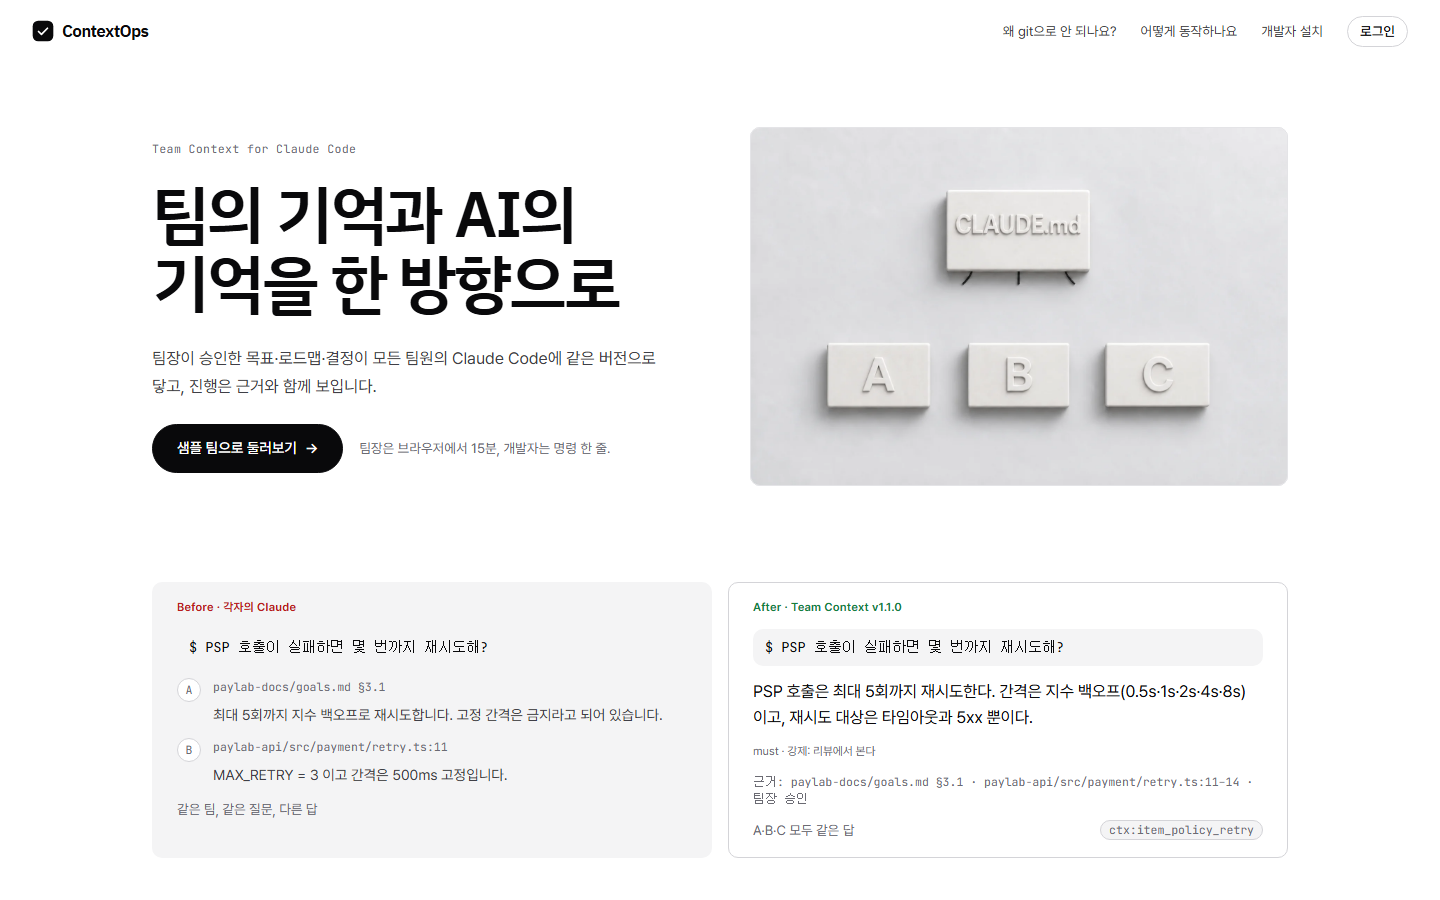
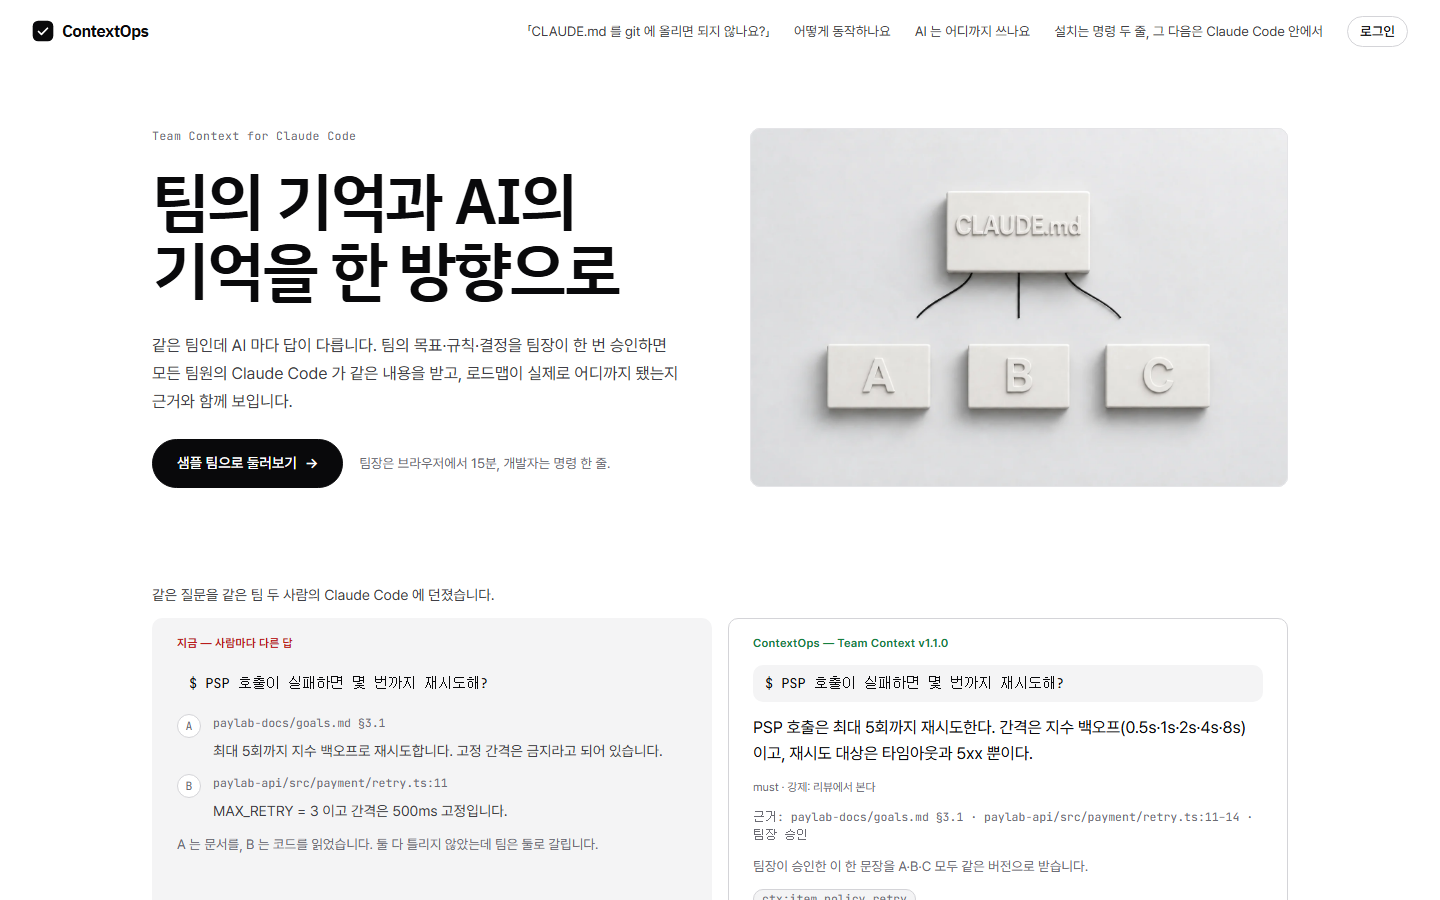
copy(web): 랜딩 문구를 심사위원이 3분에 읽는 기준으로 다시 씀 — 문제부터, 「AI 는 어디까지 쓰나요」 절 신설
사용자: 「팀장이 git 을 안 쓴다가 웃겨」 · 「문구·설명이 뭘 의도하는지 안 와닿는다, 제대로 해줘」 · 「캡처 속도 더 빨리」.
- 부제(site.ts): 「같은 팀인데 AI 마다 답이 다릅니다. …」 — 문제 → 해법 → 증거 순서
- Before/After: 위에 한 줄 캡션 · 제목·발을 상황 문장으로 · After 제목에 버전 유지
- 「CLAUDE.md 를 git 에 올리면 되지 않나요?」: 심사위원의 질문을 제목으로, 첫 줄 「결정은 레포 밖에서 납니다」
- 「어떻게 동작하나요」: 가져와서 정리한다 → 승인해서 발행한다 → 진행이 근거와 함께 보인다 (+ 한 줄 lead)
- 새 절 「AI 는 어디까지 쓰나요」: 후보 · 충돌 질문 · 승인 뒤 LLM 0 · 훅은 보고만 (전부 실제 코드의 사실)
- 신뢰 절 「서버는 코드를 보지 않습니다」 · 설치 절 존댓말 · 머리글 링크 짧은 낱말
- README·SUBMISSION 이 같은 문장을 말한다 (readme.test ①) · DESIGN_BRIEF §4 화면 1 갱신 · og.png
- 히어로 스톱모션 6초 → 3.4초

diff --git a/apps/web/src/components/landing.tsx b/apps/web/src/components/landing.tsx
@@ -71,9 +71,11 @@ export const LANDING_HEAD = {
  *   근거 없는 줄이다 (P7 의 정신).
  */
 export const BEFORE_AFTER = {
+  //  2026-09-10 사용자: 「문구가 안 와닿는다」 — 카드 위에 한 줄로 **무엇을 보고 있는지**부터 말한다.
+  caption: '같은 질문을 같은 팀 두 사람의 Claude Code 에 던졌습니다.',
   prompt: 'PSP 호출이 실패하면 몇 번까지 재시도해?',
   before: {
-    title: 'Before · 각자의 Claude',
+    title: '지금 — 사람마다 다른 답',
     answers: [
       {
         who: 'A',
@@ -86,17 +88,17 @@ export const BEFORE_AFTER = {
         text: 'MAX_RETRY = 3 이고 간격은 500ms 고정입니다.',
       },
     ],
-    foot: '같은 팀, 같은 질문, 다른 답',
+    foot: 'A 는 문서를, B 는 코드를 읽었습니다. 둘 다 틀리지 않았는데 팀은 둘로 갈립니다.',
   },
   after: {
-    title: 'After · Team Context v1.1.0',
+    title: 'ContextOps — Team Context v1.1.0',
     /** 씨앗 초안의 id — Pack 의 역추적 태그(`<!-- ctx:… -->`)에 그대로 실리는 값이다. */
     itemId: 'item_policy_retry',
     text: 'PSP 호출은 최대 5회까지 재시도한다. 간격은 지수 백오프(0.5s·1s·2s·4s·8s)이고, '
       + '재시도 대상은 타임아웃과 5xx 뿐이다.',
     detail: 'must · 강제: 리뷰에서 본다',
     evidence: ['paylab-docs/goals.md §3.1', 'paylab-api/src/payment/retry.ts:11–14', '팀장 승인'],
-    foot: 'A·B·C 모두 같은 답',
+    foot: '팀장이 승인한 이 한 문장을 A·B·C 모두 같은 버전으로 받습니다.',
   },
 } as const
 
@@ -108,10 +110,10 @@ export const BEFORE_AFTER = {
  *   여기 표에는 **절 제목과 설명**만 있다 — 파일 이름은 한 자도 없다.
  */
 export const PRODUCT_TOUR = {
-  title: '제품 화면',
-  lead: '아래는 시안이 아니라 관통 시나리오가 실제 앱을 띄워 찍은 화면입니다. '
-    + '캡처마다 어느 주소의 화면인지 같이 적었습니다.',
-  foot: '캡처는 관통(tools/walkthrough.ps1)의 shots 단계가 매번 다시 찍습니다 — 낡은 그림이 남지 않습니다.',
+  title: '실제로 도는 화면입니다',
+  lead: '아래 세 장은 시안이 아니라 검증 시나리오가 실제 앱을 띄워 방금 찍은 캡처입니다. '
+    + '위의 [샘플 팀으로 둘러보기]를 누르면 같은 화면을 직접 만질 수 있습니다.',
+  foot: '캡처는 검증 시나리오(tools/walkthrough.ps1)의 shots 단계가 매번 다시 찍습니다 — 낡은 그림이 남지 않습니다.',
 } as const
 
 /**
@@ -122,39 +124,69 @@ export const PRODUCT_SHOTS = ShotsManifest.parse(shotsManifest).shots
 
 /** C-1. 왜 git 으로 안 되나요 — 세 문장 카드 + 한 줄. */
 export const WHY_NOT_GIT = {
-  title: '왜 git으로 안 되나요?',
+  //  심사위원이 제일 먼저 던지는 질문을 제목으로 — 그 답이 세 줄이다.
+  title: '「CLAUDE.md 를 git 에 올리면 되지 않나요?」',
   cards: [
     {
-      head: '팀장은 git을 안 씁니다',
-      body: '목표·정책은 문서와 회의에 있고, 레포의 CLAUDE.md 는 개발자 개인이 각자 관리합니다.',
+      //  2026-09-10 사용자: 「팀장이 git 을 안 쓴다」는 문장이 웃기다 — 사람을 깎는 말이 아니라 **결정이 나는 자리**를 말한다.
+      head: '결정은 레포 밖에서 납니다',
+      body: '목표·정책은 문서와 회의에서 정해집니다. 그걸 CLAUDE.md 로 옮기는 일은 개발자 각자의 손에 맡겨져 있어서, 사람마다 다른 파일이 됩니다.',
     },
     {
-      head: '컨텍스트는 레포 하나에 갇히지 않습니다',
-      body: '결제 팀의 재시도 규칙은 API·웹훅·정산 레포에 같이 적용됩니다. 레포마다 복사하면 갈립니다.',
+      head: '한 팀의 규칙은 여러 레포에 걸칩니다',
+      body: '결제 팀의 재시도 규칙은 API·웹훅·정산 레포에 똑같이 적용돼야 합니다. 레포마다 복사해 두면 어느 날 하나만 바뀝니다.',
     },
     {
-      head: 'git은 「왜」를 모릅니다',
-      body: 'diff 는 무엇이 바뀌었는지만 남깁니다. 누가 어떤 근거로 정했는지는 남지 않습니다.',
+      head: 'git 은 「왜」를 남기지 않습니다',
+      body: 'diff 는 무엇이 바뀌었는지만 남깁니다. 누가 어떤 근거로 정했는지가 없으면, AI 도 사람도 그 규칙을 믿을 이유가 없습니다.',
     },
   ],
-  line: 'DeepWiki는 코드를 사람에게 설명합니다. ContextOps는 팀의 결정을 AI에게 꽂습니다.',
+  line: 'ContextOps 는 흩어진 결정을 팀장이 승인한 한 벌로 만들고, 모든 팀원의 AI 에 같은 버전으로 꽂습니다.',
 } as const
 
 /** C-2. 어떻게 동작하나요 — 3단계. ⚠ 썸네일은 없다 (production 캡처가 아직 없다 · PLAN P5 둘째 행). */
 export const HOW_IT_WORKS = {
   title: '어떻게 동작하나요',
+  lead: '팀장은 브라우저에서 세 단계, 개발자는 명령 한 줄입니다.',
   steps: [
     {
-      head: '만든다',
-      body: '문서·답변·코드에서 항목을 뽑고, 서로 어긋난 것은 사람이 결정합니다. 승인된 것만 남습니다.',
+      head: '가져와서 정리한다',
+      body: '목표 문서·회의록을 붙여 넣거나 질문 10개에 답하면, AI 가 규칙·마일스톤 후보를 뽑고 서로 어긋난 것을 찾아 질문으로 만듭니다. 결정은 사람이 합니다.',
     },
     {
-      head: '배포한다',
-      body: '같은 snapshot 은 언제나 같은 Pack 입니다. 모든 기기가 같은 버전·같은 해시를 받습니다.',
+      head: '승인해서 발행한다',
+      body: '팀장이 승인한 항목만 CLAUDE.md 한 벌로 묶여 버전이 붙습니다. 모든 팀원의 Claude Code 가 같은 버전·같은 해시를 받습니다. 승인 뒤에는 AI 가 끼어들지 않습니다.',
     },
     {
-      head: '진행이 보인다',
-      body: '각자의 AI 가 작업 끝에 근거를 보고하고, 완료는 사람이 확인합니다. 행은 마일스톤입니다.',
+      head: '진행이 근거와 함께 보인다',
+      body: '개발자의 AI 가 작업을 마치면 어떤 파일을 고쳤는지 보고합니다. 로드맵은 마일스톤 단위로 채워지고, 완료 판정은 사람이 합니다.',
+    },
+  ],
+} as const
+
+/**
+ * C-2b. AI 는 어디까지 쓰나 — 심사 기준 「AI 활용 적절성」에 대한 랜딩의 답 (2026-09-10 · 사용자 「문구가 안 와닿는다」).
+ * ⚠ 쓰는 곳·안 쓰는 곳이 전부 실제 코드다: 구조화·충돌 탐지는 `lib/ai`(P3) · 발행·배포는 LLM 0 (P4) · 훅은 보고만 (SPEC §8.6).
+ */
+export const AI_USE = {
+  title: 'AI 는 어디까지 쓰나요',
+  lead: 'AI 는 후보와 질문을 만들고, 결정은 사람이, 배포는 결정론이 맡습니다.',
+  rows: [
+    {
+      head: '문서를 항목 후보로 바꿉니다',
+      body: '붙여 넣은 문서에서 규칙·마일스톤 후보를 뽑고 근거 위치를 같이 답니다 (서버쪽 모델은 Gemini). 후보는 후보일 뿐, 승인 버튼은 사람 몫입니다.',
+    },
+    {
+      head: '서로 어긋난 결정을 찾아 묻습니다',
+      body: '문서끼리, 또는 문서와 코드가 다르게 말하면 충돌 카드로 올립니다. 「A 가 맞다 · B 가 맞다 · 보류」는 사람이 고릅니다.',
+    },
+    {
+      head: '승인 뒤에는 쓰지 않습니다',
+      body: '발행과 배포는 AI 없이 결정론적으로 돕니다. 같은 스냅샷은 언제나 같은 파일·같은 해시라서, 어느 기기가 무엇을 받았는지 그대로 검증됩니다.',
+    },
+    {
+      head: '개발자의 AI 는 보고만 합니다',
+      body: '작업 끝에 어떤 경로를 고쳤는지 근거를 올립니다. 완료를 스스로 선언하지 못하고, 사람이 확인해야 완료가 됩니다.',
     },
   ],
 } as const
@@ -171,10 +203,10 @@ export const HOW_IT_WORKS = {
  *   보고 하나가 실제로 그만큼만 바꾼다.
  */
 export const TERMINAL_REPLAY = {
-  title: '터미널에서는 이렇게 보입니다',
-  lead: '세션을 열면 훅이 새 버전을 알리고, /contextops:sync 로 받고, 작업을 마치면 agent 가 '
-    + '근거와 함께 보고합니다. 오른쪽 Roadmap 이 같은 시각에 바뀝니다.',
-  source: '관통 시나리오가 배포되는 플러그인을 실제로 돌려 남긴 출력입니다 (fixtures/replay/sync.json). '
+  title: '개발자 쪽에서는 이렇게 보입니다',
+  lead: 'Claude Code 를 열면 훅이 새 버전을 알리고, /contextops:sync 한 줄로 받습니다. '
+    + '작업을 마치면 AI 가 근거와 함께 보고하고, 오른쪽 Roadmap 이 같은 순간 바뀝니다.',
+  source: '배포되는 플러그인을 실제로 돌려 남긴 출력입니다 (fixtures/replay/sync.json). '
     + '사이의 작업은 생략했고, 타이핑과 줄 사이 간격만 읽을 수 있게 늘렸습니다.',
   milestone: {
     id: 'PL-M1',
@@ -196,9 +228,9 @@ export const REPLAY_FRAMES = ReplayFrames.parse(replayRecording)
  *   한다 — 시험이 센다. 하나라도 빠지면 첫 화면이 제품의 첫 주장을 반만 말한다.
  */
 export const TRUST_BOUNDARY = {
-  title: '서버가 아는 것 / 모르는 것',
+  title: '서버는 코드를 보지 않습니다',
   knows: {
-    head: '서버가 아는 것',
+    head: '서버가 받는 것',
     rows: [
       '팀·프로젝트 ID',
       '구조화된 항목 (제목·규칙·마일스톤)',
@@ -208,7 +240,7 @@ export const TRUST_BOUNDARY = {
     ],
   },
   unknown: {
-    head: '서버가 모르는 것',
+    head: '절대 받지 않는 것',
     rows: [
       '저장소 코드 본문',
       '환경변수 · secret',
@@ -217,7 +249,7 @@ export const TRUST_BOUNDARY = {
       'Claude 대화 내용',
     ],
   },
-  foot: '올라가는 것은 allowlist 스키마로만 통과합니다. 훅은 파일을 바꾸지 않습니다.',
+  foot: '올라가는 것은 정해진 스키마를 통과한 항목뿐입니다. 코드 본문·비밀값·개인 메모리·대화는 어떤 경우에도 서버로 가지 않고, 훅은 파일을 바꾸지 않습니다.',
 } as const
 
 /**
@@ -256,22 +288,22 @@ export const SUBMISSION_IDENTITY = {
  * ⚠ `/contextops:…` 는 `plugin/contextops/skills/<이름>` 이 있어야 한다 (시험이 센다).
  */
 export const INSTALL_STEPS = {
-  title: '개발자 설치',
+  title: '설치는 명령 두 줄, 그 다음은 Claude Code 안에서',
   /**
    * 🔴 Node 가 있어야 한다 — 훅(`scripts/*.mjs`)과 CLI 번들이 `node` 로 돈다. 네이티브 Claude Code 만 깐 사람은
    *   이 줄이 없으면 **매 세션 훅 오류 줄**을 본다 (2026-09-09 감사). 숫자의 정본은 `.nvmrc` 이고
    *   `test/readme.test.ts` 가 같은 값인지 잰다 (번들 target 도 그 값이다 · `plugin/contextops/scripts/build.ts`).
    */
-  requires: 'Node 22 이상이 필요하다 (node -v) — 훅과 CLI 가 Node 로 돈다.',
+  requires: 'Node 22 이상이 필요합니다 (node -v) — 훅과 CLI 가 Node 로 돕니다.',
   lines: [
-    { cmd: `claude plugin marketplace add ${SUBMISSION_IDENTITY.marketplaceRef}`, note: '플러그인 저장소를 등록한다' },
-    { cmd: 'claude plugin install contextops', note: '플러그인을 깐다 (훅 · Skill · CLI)' },
+    { cmd: `claude plugin marketplace add ${SUBMISSION_IDENTITY.marketplaceRef}`, note: '플러그인 저장소를 등록합니다' },
+    { cmd: 'claude plugin install contextops', note: '훅·Skill·CLI 가 함께 깔립니다' },
     //  ⚠ 셋째 줄은 Claude Code 안의 Skill 이다 — 터미널 명령이 아니다. 예전의 `node "$CLAUDE_PLUGIN_ROOT/…"` 는
     //    사용자 터미널에 없는 변수라 그대로 치면 「파일이 없다」였다. Skill 이 그 경로를 채운다.
-    { cmd: '/contextops:setup <Sync 화면이 준 인자>', note: 'Claude Code 안에서. 웹의 Sync → [기기 추가] 가 이 줄을 통째로 준다 — 토큰은 저장소 밖에' },
-    { cmd: '/contextops:init', note: 'Claude Code 안에서 한 번. 저장소를 훑어 첫 항목을 올린다' },
+    { cmd: '/contextops:setup <Sync 화면이 준 인자>', note: 'Claude Code 안에서. 웹의 Sync → [기기 추가] 가 이 줄을 통째로 줍니다 — 토큰은 저장소 밖에 둡니다' },
+    { cmd: '/contextops:init', note: 'Claude Code 안에서 한 번. 저장소를 훑어 첫 항목을 올립니다' },
   ],
-  foot: '그 다음은 팀장이 웹에서 승인하고, /contextops:sync 로 받는다.',
+  foot: '그 다음은 팀장이 웹에서 승인하고, 개발자는 /contextops:sync 로 받습니다.',
 } as const
 
 /** 푸터 (DESIGN_BRIEF 화면 1 C-6: 제출 팀명 · GitHub 링크 · Known limitations 링크). 값은 `SUBMISSION_IDENTITY` 하나에서 온다. */
@@ -348,9 +380,11 @@ function Hero() {
 }
 
 function BeforeAfter() {
-  const { prompt, before, after } = BEFORE_AFTER
+  const { caption, prompt, before, after } = BEFORE_AFTER
   return (
-    <div className={styles.compare} aria-label="Before/After">
+    <section className={styles.compareBand} aria-label="Before/After">
+      <p className={styles.compareCaption}>{caption}</p>
+      <div className={styles.compare}>
       <div className={`card ${styles.slip} ${styles.slipBefore}`}>
         <span className={`${styles.slipLabel} ink-bad`}>{before.title}</span>
         <code className={styles.prompt}>$ {prompt}</code>
@@ -378,7 +412,8 @@ function BeforeAfter() {
           <span className="ctx-tag">ctx:{after.itemId}</span>
         </div>
       </div>
-    </div>
+      </div>
+    </section>
   )
 }
 
@@ -456,7 +491,7 @@ function HowItWorks({ index }: { index: string }) {
   if (art) {
     return (
       <section className={styles.section} aria-labelledby="landing-how">
-        <SectionHead id="landing-how" index={index} title={HOW_IT_WORKS.title} />
+        <SectionHead id="landing-how" index={index} title={HOW_IT_WORKS.title} lead={HOW_IT_WORKS.lead} />
         {steps}
       </section>
     )
@@ -465,10 +500,27 @@ function HowItWorks({ index }: { index: string }) {
     <section className={styles.section} aria-labelledby="landing-how">
       <div className={styles.split}>
         <div className={styles.splitHead}>
-          <SectionHead id="landing-how" index={index} title={HOW_IT_WORKS.title} />
+          <SectionHead id="landing-how" index={index} title={HOW_IT_WORKS.title} lead={HOW_IT_WORKS.lead} />
         </div>
         {steps}
       </div>
+    </section>
+  )
+}
+
+function AiUse({ index }: { index: string }) {
+  return (
+    <section className={styles.section} aria-labelledby="landing-ai">
+      <SectionHead id="landing-ai" index={index} title={AI_USE.title} lead={AI_USE.lead} />
+      {/* 정의 목록 — 「왜 git」과 같은 모양. 아이콘 없이 글과 괘선으로만 (anti-slop). */}
+      <dl className={styles.defs}>
+        {AI_USE.rows.map((r) => (
+          <div key={r.head} className={styles.def}>
+            <dt>{r.head}</dt>
+            <dd>{r.body}</dd>
+          </div>
+        ))}
+      </dl>
     </section>
   )
 }
@@ -560,11 +612,13 @@ function Foot() {
  */
 const SECTIONS = [
   { render: ProductShots, id: 'landing-shots', nav: null },
-  { render: WhyNotGit, id: 'landing-why', nav: WHY_NOT_GIT.title },
-  { render: HowItWorks, id: 'landing-how', nav: HOW_IT_WORKS.title },
+  //  머리글의 낱말은 절 제목의 **짧은 판**이다 — 제목은 문장이라 머리글에 넣으면 한 줄을 다 먹는다 (눈으로 봤다).
+  { render: WhyNotGit, id: 'landing-why', nav: '왜 git 이 아닌가' },
+  { render: HowItWorks, id: 'landing-how', nav: '어떻게 동작하나' },
+  { render: AiUse, id: 'landing-ai', nav: 'AI 활용' },
   { render: Replay, id: 'landing-replay', nav: null },
   { render: TrustBoundary, id: 'landing-trust', nav: null },
-  { render: Install, id: 'landing-install', nav: INSTALL_STEPS.title },
+  { render: Install, id: 'landing-install', nav: '설치' },
 ] as const
 
 /** 머리글 링크의 닻 — h2 의 id 에서 `landing-` 을 뗀 것 (`/#why` · `/#install`). */

diff --git a/apps/web/src/components/landing.module.css b/apps/web/src/components/landing.module.css
@@ -109,25 +109,29 @@
 }
 
 /* 스톱모션 — 실이 내려오는 프레임 넷이 바닥 그림(완성 장면) 위에 차례로 뜬다 (`ART.heroFrames`).
-   한 바퀴 6초: 프레임마다 0.8초, 완성 장면이 2.8초 쉰다. `steps(1)` 이라 페이드 없이 딱딱 바뀐다 — 클레이 스톱모션의 손맛.
+   한 바퀴 3.4초: 프레임마다 0.45초, 완성 장면이 1.6초 쉰다 (처음 6초는 느리다고 해 반으로 — 2026-09-10 사용자).
+   `steps(1)` 이라 페이드 없이 딱딱 바뀐다 — 클레이 스톱모션의 손맛. 프레임 길이 ÷ 한 바퀴 = 13.24% 가 아래 keyframe 이다.
    ★ 움직임 줄이기 — 여기서 다루지 않는다. `globals.css` 의 한 블록이 duration 0.01ms·1회로 끝내면 프레임은 전부
      기본값(opacity 0)으로 돌아가고 바닥 그림만 남는다. 그래서 완성 장면이 **바닥**이어야 한다 — 순서를 바꾸지 마라. */
 .heroFrame {
   position: absolute;
   inset: 0;
   opacity: 0;
-  animation: hero-stop 6s steps(1) infinite;
+  animation: hero-stop 3.4s steps(1) infinite;
 }
-.heroFrame:nth-child(3) { animation-delay: 0.8s; }
-.heroFrame:nth-child(4) { animation-delay: 1.6s; }
-.heroFrame:nth-child(5) { animation-delay: 2.4s; }
+.heroFrame:nth-child(3) { animation-delay: 0.45s; }
+.heroFrame:nth-child(4) { animation-delay: 0.9s; }
+.heroFrame:nth-child(5) { animation-delay: 1.35s; }
 @keyframes hero-stop {
   0% { opacity: 1; }
-  13.34% { opacity: 0; }
+  13.24% { opacity: 0; }
   100% { opacity: 0; }
 }
 
-/* ── Before/After — 히어로 밑의 두 열 ── */
+/* ── Before/After — 히어로 밑의 두 열. 위에 「무엇을 보고 있는지」 한 줄. ── */
+
+.compareBand { display: flex; flex-direction: column; gap: var(--sp-3); }
+.compareCaption { font-size: var(--fs-body); color: var(--ink-2); }
 
 .compare {
   display: grid;

diff --git a/apps/web/src/lib/web/site.ts b/apps/web/src/lib/web/site.ts
@@ -18,8 +18,9 @@ export const SITE = {
   tagline: '팀의 기억과 AI의 기억을 한 방향으로',
   /** 랜딩 부제와 같은 문장이다 (`LANDING_HEAD.subtitle`). 링크 미리보기의 설명 칸에 그대로 나간다. */
   description:
-    '팀장이 승인한 목표·로드맵·결정이 모든 팀원의 Claude Code에 같은 버전으로 닿고, '
-    + '진행은 근거와 함께 보입니다.',
+    //  2026-09-10 사용자: 「문구가 뭘 의도하는지 안 와닿는다」 — 문제(같은 팀, 다른 답)부터 말한다.
+    '같은 팀인데 AI 마다 답이 다릅니다. 팀의 목표·규칙·결정을 팀장이 한 번 승인하면 '
+    + '모든 팀원의 Claude Code 가 같은 내용을 받고, 로드맵이 실제로 어디까지 됐는지 근거와 함께 보입니다.',
   /** `public/og.png` — `pnpm --filter web og:image` 가 헤드리스 Chrome 으로 그린다 (1200×630). */
   ogImage: { path: '/og.png', width: 1200, height: 630 },
   /** `public/icon.svg` — 탭·북마크 아이콘. 색은 DESIGN_BRIEF §3 의 토큰 값 그대로다. */

diff --git a/docs/DESIGN_BRIEF.md b/docs/DESIGN_BRIEF.md
@@ -237,7 +237,8 @@
 
 **A. 헤드라인** (좌측, 최대 60% 폭)
 - 제목: `팀의 기억과 AI의 기억을 한 방향으로`
-- 부제: `팀장이 승인한 목표·로드맵·결정이 모든 팀원의 Claude Code에 같은 버전으로 닿고, 진행은 근거와 함께 보입니다.`
+- 부제: `같은 팀인데 AI 마다 답이 다릅니다. 팀의 목표·규칙·결정을 팀장이 한 번 승인하면 모든 팀원의 Claude Code 가 같은 내용을 받고, 로드맵이 실제로 어디까지 됐는지 근거와 함께 보입니다.`
+  (2026-09-10 사용자 「문구가 뭘 의도하는지 안 와닿는다」 → 문제부터 말하는 문장으로. **모든 문구의 정본은 `landing.tsx` 의 표**이고 아래 C 절의 문장은 목업이다.)
 - 버튼: [샘플 팀으로 둘러보기] (accent, 게스트 입장) · [2분 영상 보기] (outline)
 - 아래 작은 줄: `팀장은 브라우저에서 15분, 개발자는 명령 한 줄.`
 
@@ -276,9 +277,10 @@
 - accent 는 쓰지 않는다 — 이 화면의 accent 는 [샘플 팀으로 둘러보기] 하나다
 
 **C. 스크롤 아래 섹션 순서**
-1. `왜 git으로 안 되나요?` — 세 문장 카드 3개(팀장은 git을 안 씁니다 / 컨텍스트는 레포 하나에 갇히지 않습니다 / git은 "왜"를 모릅니다) + 한 줄 `DeepWiki는 코드를 사람에게 설명합니다. ContextOps는 팀의 결정을 AI에게 꽂습니다.`
+1. `「CLAUDE.md 를 git 에 올리면 되지 않나요?」` — 정의 목록 3줄(결정은 레포 밖에서 납니다 / 한 팀의 규칙은 여러 레포에 걸칩니다 / git 은 「왜」를 남기지 않습니다) — 옛 문구: (결정은 레포 밖에서 납니다 / 컨텍스트는 레포 하나에 갇히지 않습니다 / git은 "왜"를 모릅니다) + 한 줄 `DeepWiki는 코드를 사람에게 설명합니다. ContextOps는 팀의 결정을 AI에게 꽂습니다.`
 2. `어떻게 동작하나요` — 3단계 가로 스텝: ① 만든다(문서·답변·코드 → 승인) ② 배포한다(같은 버전·같은 해시) ③ 진행이 보인다(AI가 근거를 자동 보고, 사람이 완료 확인). 각 스텝 위에 같은 시리즈의 클레이 그림(`ART.steps` · §3 「그림」).
-3. `터미널 재생` — 좌: 타이핑되는 터미널(훅 알림 → /contextops:sync → 작업 → 자동 progress) / 우: 같은 타임라인으로 Roadmap 행 BS-M2가 1/3 → 2/3으로 바뀌는 미니 패널.
+2b. `AI 는 어디까지 쓰나요` — 정의 목록 4줄 (후보 · 충돌 질문 · 승인 뒤 LLM 0 · 훅은 보고만). 2026-09-10 신설 — 심사 기준 「AI 활용 적절성」의 답.
+3. `개발자 쪽에서는 이렇게 보입니다`(옛 「터미널 재생」) — 좌: 타이핑되는 터미널(훅 알림 → /contextops:sync → 작업 → 자동 progress) / 우: 같은 타임라인으로 Roadmap 행 BS-M2가 1/3 → 2/3으로 바뀌는 미니 패널.
 4. `서버가 아는 것 / 모르는 것` 2열 표 — 아는 것: 팀·프로젝트 ID, 구조화 항목, 문서 원문(팀장이 등록한 것), 경로·줄·커밋, 버전·해시 / 모르는 것: 저장소 코드 본문, 환경변수·secret, 개인 CLAUDE.local.md, Auto Memory, Claude 대화.
 5. `개발자 설치` — 코드 블록 1줄 `npx contextops setup` + 아래 "그 다음은 Claude Code에서 /contextops:init 한 번".
 6. 푸터: 제출 팀명, GitHub 링크, Known limitations 링크.
